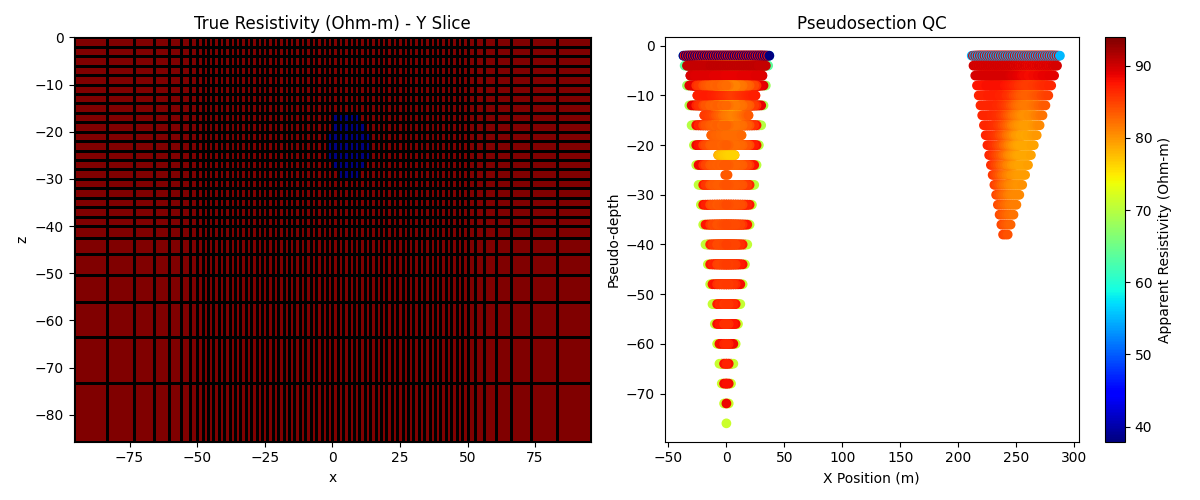
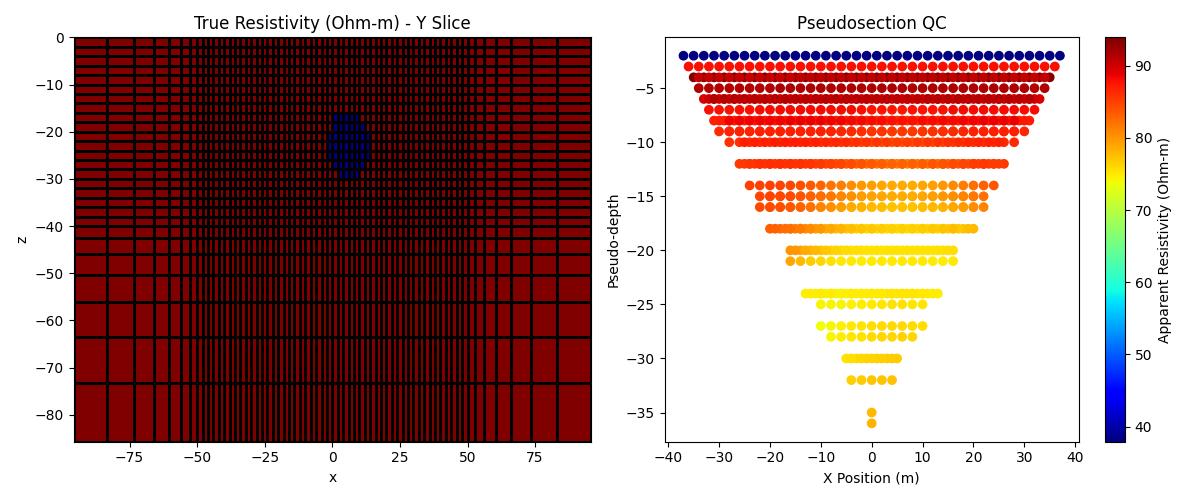
Validación del dataset

diff --git a/forward/dataset/hdf5_writer.py b/forward/dataset/hdf5_writer.py
@@ -1,5 +1,6 @@
 import h5py
 import numpy as np
+import yaml
 import os
 
 class HDF5Writer:
@@ -7,64 +8,86 @@ class HDF5Writer:
         self.filepath = filepath
         self.file = h5py.File(filepath, 'a')
         self._initialized = False
+        
+        with open("configs/mesh.yaml", 'r') as f:
+            self.mesh_config = yaml.safe_load(f)['mesh']
+            
+        self.pad_x = self.mesh_config['pad_x']
+        self.nx = self.mesh_config['nx']
+        self.pad_y = self.mesh_config['pad_y']
+        self.ny = self.mesh_config['ny']
+        self.pad_z = self.mesh_config['pad_z']
+        self.nz = self.mesh_config['nz']
 
     def _initialize_datasets(self, sample):
-        sigma = sample['sigma']
-        measurements = sample['measurements']
+        num_meas = len(sample['measurements'])
         
-        num_cells = sigma.shape[0]
-        num_meas = len(measurements)
+        # inputs/apparent_resistivity -> shape (0, num_meas)
+        self.file.create_dataset('inputs/apparent_resistivity', shape=(0, num_meas), maxshape=(None, num_meas), dtype='float32', compression='gzip')
         
-        # Initialize datasets with unlimited maxshape for appending
-        self.file.create_dataset('sigma', shape=(0, num_cells), maxshape=(None, num_cells), dtype='float32', compression='gzip')
-        self.file.create_dataset('rho_a', shape=(0, num_meas), maxshape=(None, num_meas), dtype='float32', compression='gzip')
-        self.file.create_dataset('delta_v', shape=(0, num_meas), maxshape=(None, num_meas), dtype='float32', compression='gzip')
+        # inputs/electrode_positions -> shape (0, num_meas, 4, 3)
+        self.file.create_dataset('inputs/electrode_positions', shape=(0, num_meas, 4, 3), maxshape=(None, num_meas, 4, 3), dtype='float32', compression='gzip')
         
-        # Assume electrode layout and sequence is fixed per dataset for simplicity
-        electrodes = sample['electrodes']
-        self.file.create_dataset('electrodes', data=electrodes, dtype='float32')
-        
-        A_idx = np.array([m['A'] for m in measurements], dtype='int32')
-        B_idx = np.array([m['B'] for m in measurements], dtype='int32')
-        M_idx = np.array([m['M'] for m in measurements], dtype='int32')
-        N_idx = np.array([m['N'] for m in measurements], dtype='int32')
-        
-        self.file.create_dataset('sequence_A', data=A_idx, dtype='int32')
-        self.file.create_dataset('sequence_B', data=B_idx, dtype='int32')
-        self.file.create_dataset('sequence_M', data=M_idx, dtype='int32')
-        self.file.create_dataset('sequence_N', data=N_idx, dtype='int32')
+        # labels/true_resistivity_3d -> shape (0, nx, ny, nz)
+        self.file.create_dataset('labels/true_resistivity_3d', shape=(0, self.nx, self.ny, self.nz), maxshape=(None, self.nx, self.ny, self.nz), dtype='float32', compression='gzip')
         
         self._initialized = True
+
+    def _extract_core_sigma(self, sigma):
+        nx_total = self.nx + 2 * self.pad_x
+        ny_total = self.ny + 2 * self.pad_y
+        nz_total = self.nz + self.pad_z
+        # Reshape using Fortran order as typical for discretize/simpeg
+        sigma_3d = sigma.reshape((nx_total, ny_total, nz_total), order='F')
+        core_sigma = sigma_3d[self.pad_x:self.pad_x+self.nx, 
+                              self.pad_y:self.pad_y+self.ny, 
+                              self.pad_z:self.pad_z+self.nz]
+        return core_sigma
+        
+    def _get_electrode_pos(self, sample):
+        electrodes = sample['electrodes']
+        measurements = sample['measurements']
+        num_meas = len(measurements)
+        pos = np.zeros((num_meas, 4, 3), dtype=np.float32)
+        
+        for i, m in enumerate(measurements):
+            pos_A = electrodes[m['A']]
+            pos_B = electrodes[m['B']] if m['B'] != -1 else pos_A + np.array([1000, 0, 0])
+            pos_M = electrodes[m['M']]
+            pos_N = electrodes[m['N']]
+            pos[i] = [pos_A, pos_B, pos_M, pos_N]
+            
+        return pos
 
     def append_batch(self, samples):
         if not samples:
             return
             
         if not self._initialized:
-            # Check if datasets already exist from previous runs
-            if 'sigma' in self.file:
+            if 'inputs/apparent_resistivity' in self.file:
                 self._initialized = True
             else:
                 self._initialize_datasets(samples[0])
                 
         num_new = len(samples)
         
-        sigma_batch = np.array([s['sigma'] for s in samples])
-        rho_a_batch = np.array([[m['rho_a'] for m in s['measurements']] for s in samples])
-        delta_v_batch = np.array([[m['delta_v'] for m in s['measurements']] for s in samples])
+        # Prepare batches
+        rho_a_batch = np.array([[m['rho_a'] for m in s['measurements']] for s in samples], dtype=np.float32)
+        pos_batch = np.array([self._get_electrode_pos(s) for s in samples], dtype=np.float32)
+        core_sigma_batch = np.array([self._extract_core_sigma(s['sigma']) for s in samples], dtype=np.float32)
         
         # Resize and append
-        current_size = self.file['sigma'].shape[0]
+        current_size = self.file['inputs/apparent_resistivity'].shape[0]
         new_size = current_size + num_new
         
-        self.file['sigma'].resize(new_size, axis=0)
-        self.file['sigma'][current_size:new_size] = sigma_batch
+        self.file['inputs/apparent_resistivity'].resize(new_size, axis=0)
+        self.file['inputs/apparent_resistivity'][current_size:new_size] = rho_a_batch
         
-        self.file['rho_a'].resize(new_size, axis=0)
-        self.file['rho_a'][current_size:new_size] = rho_a_batch
+        self.file['inputs/electrode_positions'].resize(new_size, axis=0)
+        self.file['inputs/electrode_positions'][current_size:new_size] = pos_batch
         
-        self.file['delta_v'].resize(new_size, axis=0)
-        self.file['delta_v'][current_size:new_size] = delta_v_batch
+        self.file['labels/true_resistivity_3d'].resize(new_size, axis=0)
+        self.file['labels/true_resistivity_3d'][current_size:new_size] = core_sigma_batch
         
         self.file.flush()
 

diff --git a/forward/sanity_check.py b/forward/sanity_check.py
@@ -102,19 +102,33 @@ def main():
     n_levels = []
     rho_as = []
     
+    with open("configs/survey.yaml", 'r') as f:
+        survey_config = yaml.safe_load(f)['survey']
+    dx = survey_config.get('electrode_spacing', 2.0)
+    
     for m in measurements:
-        pos_A = sample['electrodes'][m['A']]
-        pos_B = sample['electrodes'][m['B']] if m['B'] != -1 else pos_A + np.array([1000,0,0])
-        pos_M = sample['electrodes'][m['M']]
-        pos_N = sample['electrodes'][m['N']]
+        A_idx = m['A']
+        B_idx = m['B']
+        M_idx = m['M']
+        N_idx = m['N']
         
-        # Approximation for pseudosection plotting
-        x_c = (pos_A[0] + pos_B[0] + pos_M[0] + pos_N[0]) / 4.0
-        # n level approx is distance
-        a_approx = abs(pos_M[0] - pos_N[0])
+        pos_A = sample['electrodes'][A_idx]
+        pos_B = sample['electrodes'][B_idx] if B_idx != -1 else pos_A + np.array([1000,0,0])
+        pos_M = sample['electrodes'][M_idx]
+        pos_N = sample['electrodes'][N_idx]
         
-        x_coords.append(x_c)
-        n_levels.append(-a_approx) # negative for depth
+        X_mid = (pos_A[0] + pos_B[0] + pos_M[0] + pos_N[0]) / 4.0
+        
+        a_mult = abs(M_idx - N_idx)
+        if B_idx != -1:
+            n_mult = abs(M_idx - B_idx) / a_mult if a_mult > 0 else 1
+        else:
+            n_mult = abs(M_idx - A_idx) / a_mult if a_mult > 0 else 1
+            
+        Z_pseudo = -((n_mult + 1) * a_mult * dx) / 2.0
+        
+        x_coords.append(X_mid)
+        n_levels.append(Z_pseudo)
         rho_as.append(m['rho_a'])
         
     sc = axs[1].scatter(x_coords, n_levels, c=rho_as, cmap='jet')

diff --git a/forward/survey/dipole_dipole.py b/forward/survey/dipole_dipole.py
@@ -1,15 +1,26 @@
+import yaml
+
 def generate_dipole_dipole(num_electrodes, max_n=8):
     """
     Generates Dipole-Dipole array sequence.
     A B M N format.
     """
+    with open("configs/survey.yaml", 'r') as f:
+        config = yaml.safe_load(f)['survey']
+        
+    dd_config = config['arrays'].get('dipole_dipole', {})
+    a_max = dd_config.get('a_max', 6)
+    n_max = dd_config.get('max_n', max_n)
+    
     sequence = []
-    for a in range(1, num_electrodes // 3):
-        for n in range(1, min(max_n + 1, (num_electrodes - 2*a) // a + 1)):
-            for i in range(num_electrodes - (n + 2) * a):
+    for a in range(1, a_max + 1):
+        for n in range(1, n_max + 1):
+            for i in range(num_electrodes):
                 A = i
-                B = A + a
+                B = i + a
                 M = B + n * a
                 N = M + a
-                sequence.append((A, B, M, N))
+                
+                if N < num_electrodes:
+                    sequence.append((A, B, M, N))
     return sequence

diff --git a/forward/geology/conductivity_models.py b/forward/geology/conductivity_models.py
@@ -60,10 +60,22 @@ def build_conductivity_model(mesh, config=None):
     sigma = np.ones(mesh.nC) / bg_res
     
     # Define extent where anomalies can occur (avoid padding cells)
-    # E.g. core mesh region
-    hx_core = config.get('core_x', [-30, 30])
-    hy_core = config.get('core_y', [-10, 10])
-    hz_core = config.get('core_z', [-25, -2]) # Keep anomalies a bit below surface
+    with open("configs/mesh.yaml", 'r') as f:
+        mesh_config = yaml.safe_load(f)['mesh']
+    
+    pad_x = mesh_config['pad_x']
+    nx = mesh_config['nx']
+    pad_y = mesh_config['pad_y']
+    ny = mesh_config['ny']
+    pad_z = mesh_config['pad_z']
+    nz = mesh_config['nz']
+    
+    hx_core = [mesh.nodes_x[pad_x], mesh.nodes_x[pad_x + nx]]
+    hy_core = [mesh.nodes_y[pad_y], mesh.nodes_y[pad_y + ny]]
+    
+    z_min = mesh.nodes_z[pad_z]
+    z_max = mesh.nodes_z[pad_z + nz] - 2.0 # Keep anomalies a bit below surface
+    hz_core = [z_min, z_max]
     
     anomalies = generate_random_anomalies(config, hx_core, hy_core, hz_core)
     

diff --git a/forward/scratch_check.py b/forward/scratch_check.py
@@ -1,0 +1,16 @@
+import h5py
+import sys
+
+def check_h5(filepath):
+    try:
+        with h5py.File(filepath, 'r') as f:
+            print(f"--- HDF5 File: {filepath} ---")
+            print("Apparent Resistivity shape:", f['inputs/apparent_resistivity'].shape)
+            print("Electrode positions shape:", f['inputs/electrode_positions'].shape)
+            print("True Resistivity 3D shape:", f['labels/true_resistivity_3d'].shape)
+    except Exception as e:
+        print(f"Error reading {filepath}: {e}")
+
+if __name__ == "__main__":
+    filepath = sys.argv[1] if len(sys.argv) > 1 else 'test_dataset.h5'
+    check_h5(filepath)